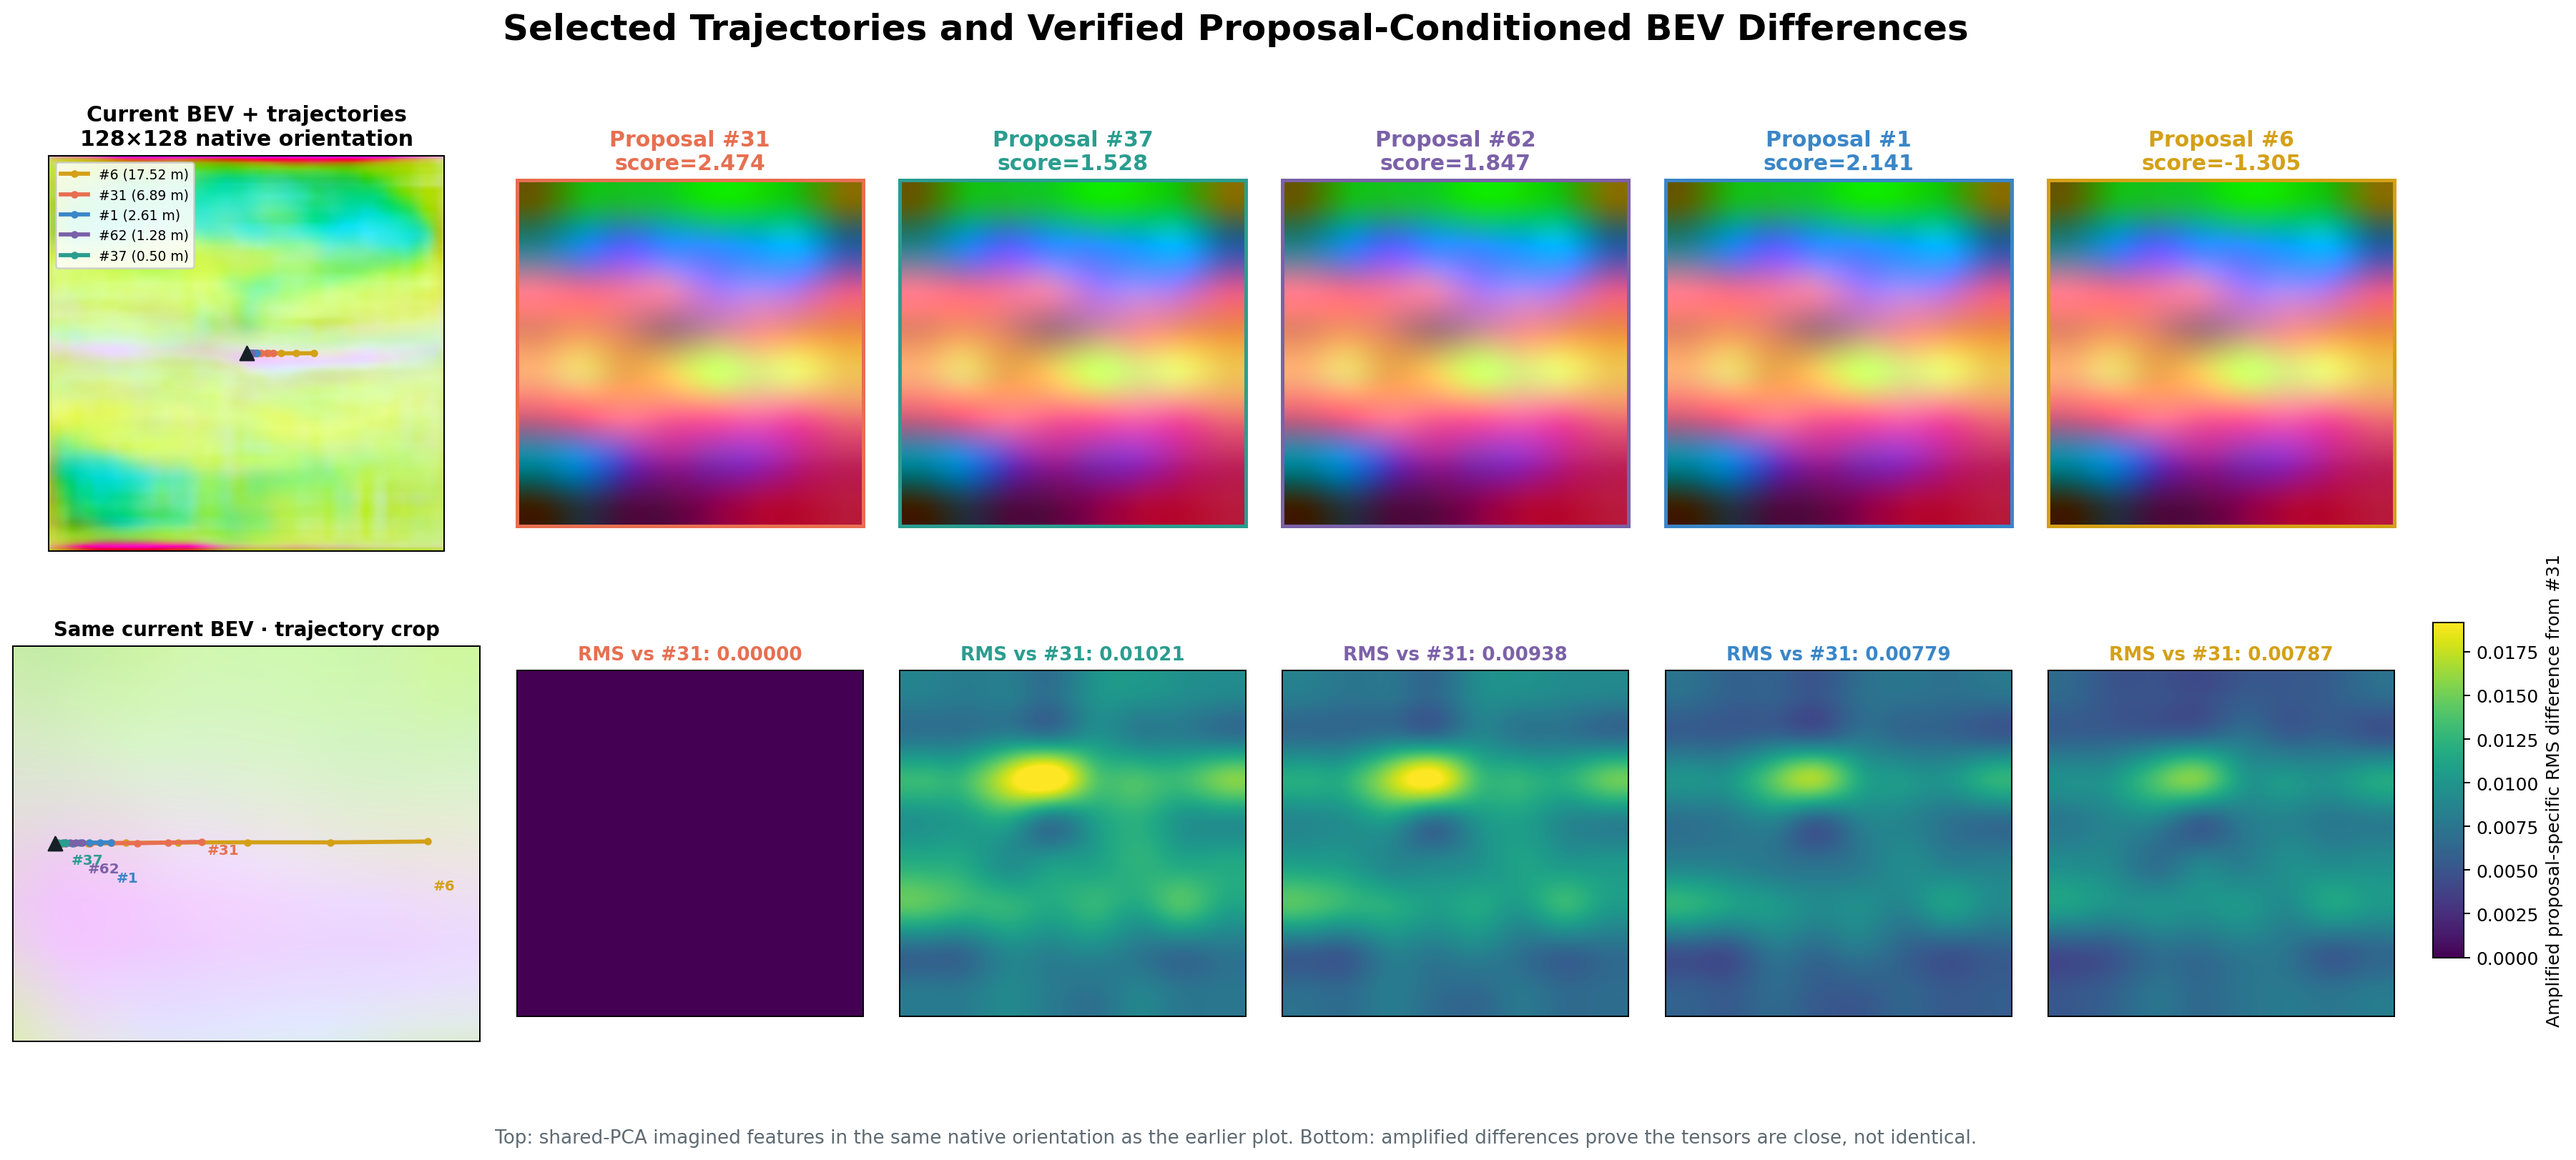
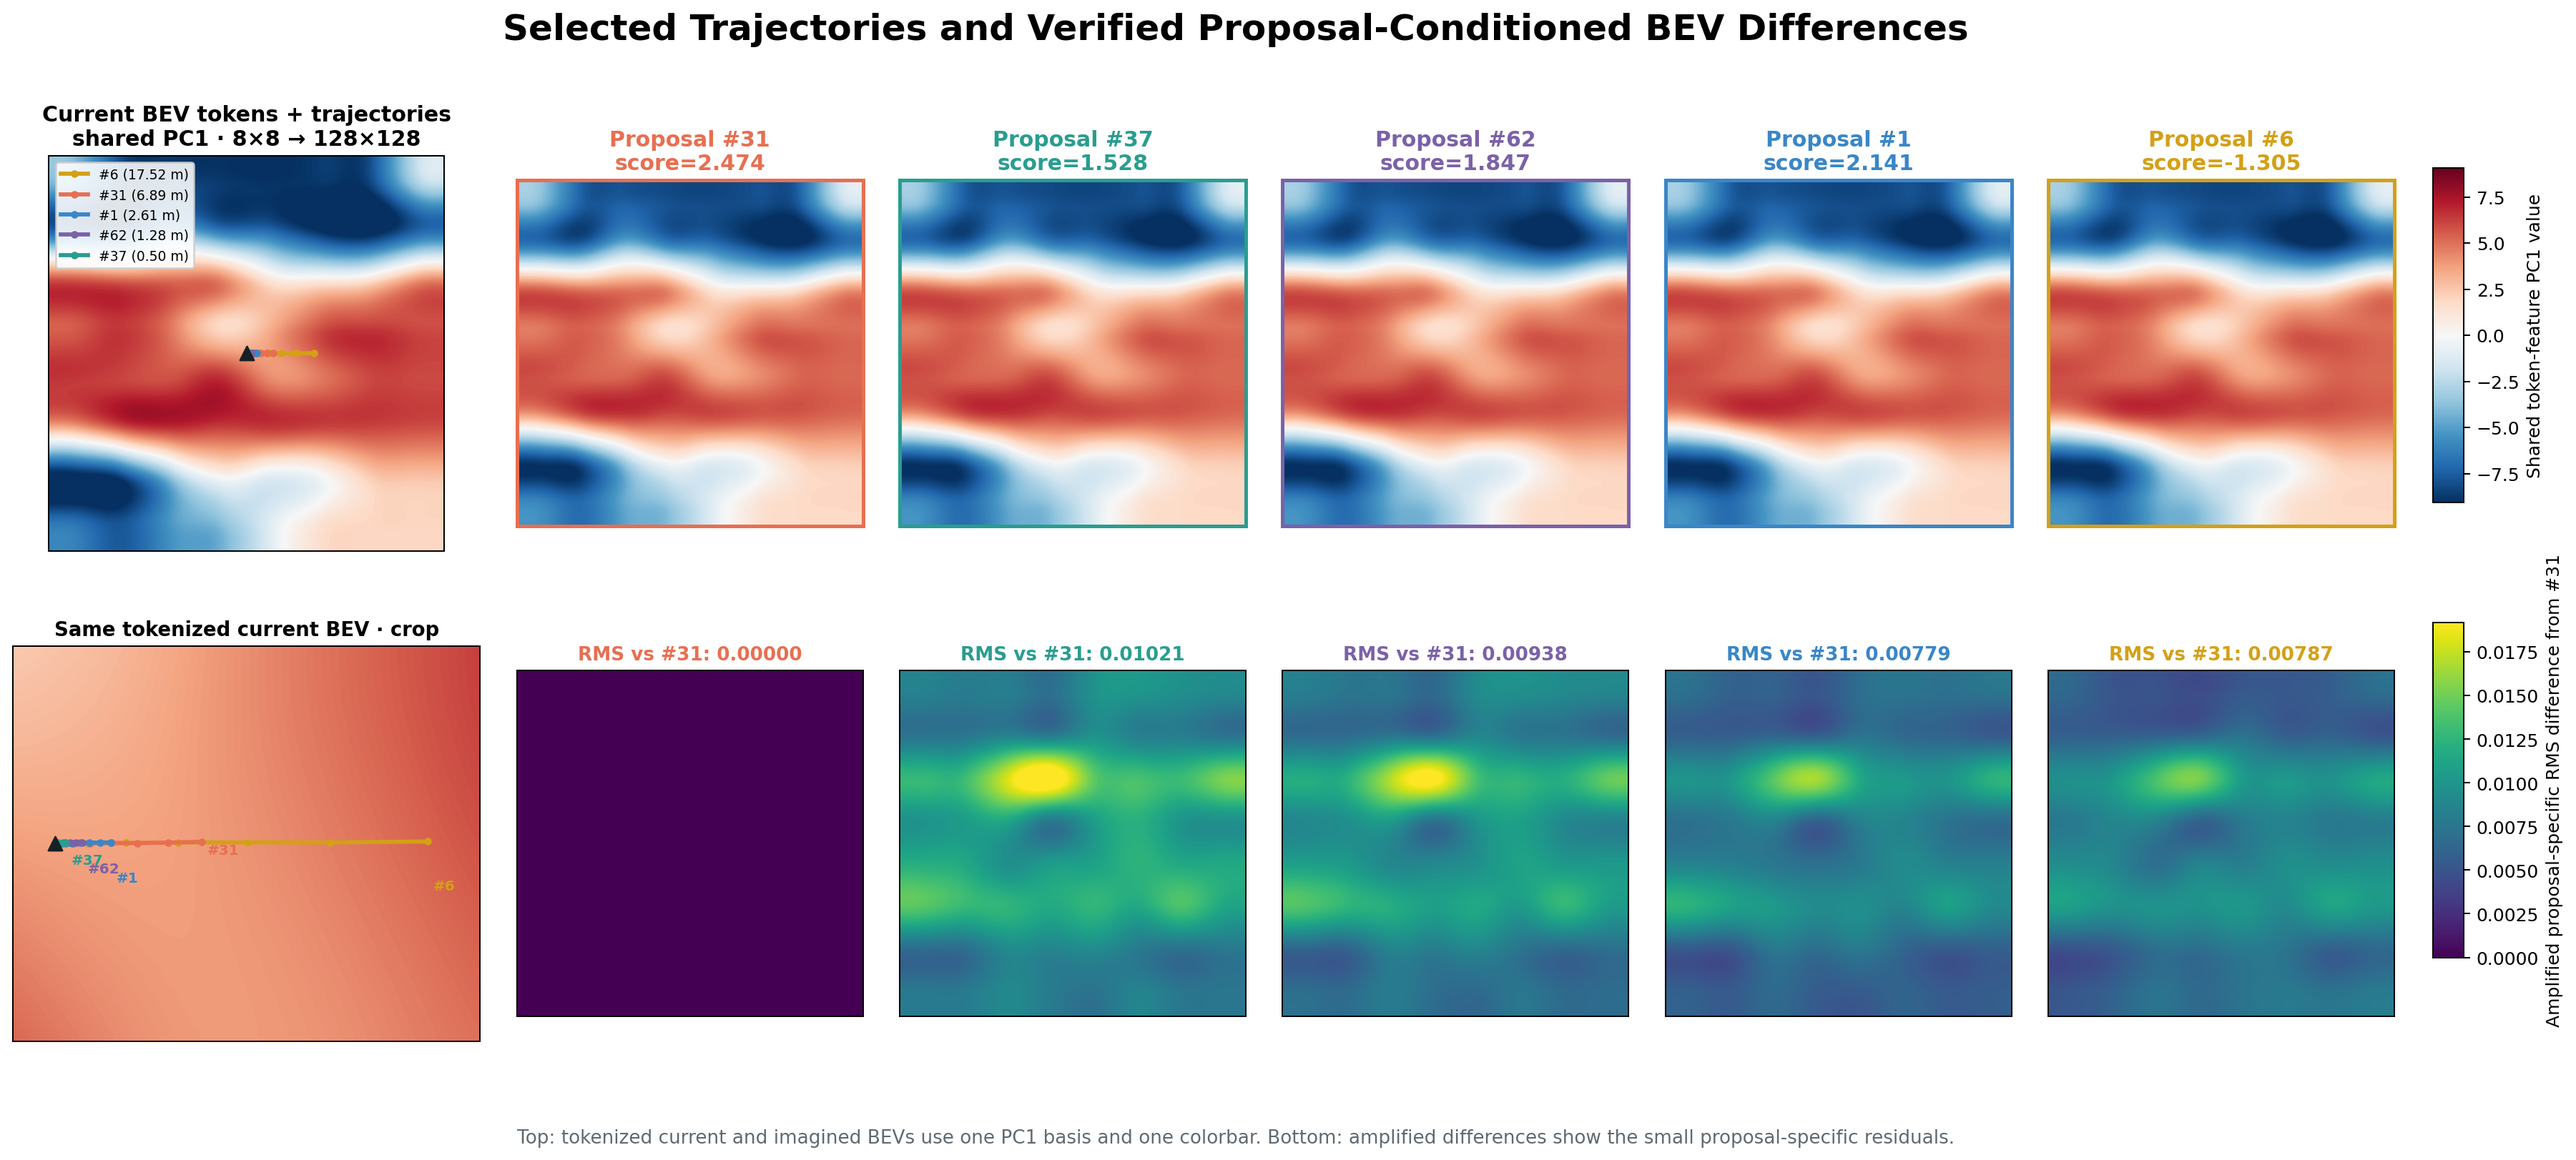
[fix] use shared BEV feature color scale

diff --git a/scripts/viz/plot_proposal_world_rollouts.py b/scripts/viz/plot_proposal_world_rollouts.py
@@ -183,6 +183,19 @@ def shared_pca_rgb(current: np.ndarray, futures: np.ndarray) -> tuple[np.ndarray
     return rgb[0], rgb[1:]
 
 
+def shared_pca_scalar(
+    current: np.ndarray, futures: np.ndarray
+) -> tuple[np.ndarray, np.ndarray, float]:
+    """Project current and future tokens onto one shared PC1 and color range."""
+    stacked = np.concatenate([current[None], futures], axis=0)
+    flat = stacked.reshape(-1, stacked.shape[-1]).astype(np.float64)
+    flat -= flat.mean(axis=0, keepdims=True)
+    _, _, vh = np.linalg.svd(flat, full_matrices=False)
+    projected = (flat @ vh[0]).reshape(stacked.shape[0], 8, 8).astype(np.float32)
+    limit = float(np.percentile(np.abs(projected), 99.0))
+    return projected[0], projected[1:], max(limit, 1e-8)
+
+
 def feature_map_pca_rgb(feature_chw: np.ndarray) -> np.ndarray:
     """Project one CxHxW feature map to RGB without implying semantic channels."""
     channels, height, width = feature_chw.shape
@@ -217,6 +230,14 @@ def upsample_scalar(values: np.ndarray, size: int = 128) -> np.ndarray:
     upsampled = F.interpolate(
         tensor, size=(size, size), mode="bicubic", align_corners=False
     ).clamp_min(0)
+    return upsampled[0, 0].numpy()
+
+
+def upsample_signed_scalar(values: np.ndarray, size: int = 128) -> np.ndarray:
+    tensor = torch.from_numpy(values).unsqueeze(0).unsqueeze(0)
+    upsampled = F.interpolate(
+        tensor, size=(size, size), mode="bicubic", align_corners=False
+    )
     return upsampled[0, 0].numpy()
 
 
@@ -449,8 +470,8 @@ def plot_requested_candidates(
     futures = data["future_tokens"]
     proposals = data["base_proposals"]
     scores = data["scores"]
-    _, future_rgb = shared_pca_rgb(current, futures)
-    raw_rgb = feature_map_pca_rgb(data["raw_bev"])
+    current_pc1, future_pc1, pc1_limit = shared_pca_scalar(current, futures)
+    current_display = upsample_signed_scalar(current_pc1)
     colors = ["#E76F51", "#2A9D8F", "#7B61A8", "#3A86C8", "#D4A017"]
     reference = selected[0]
     differences = {
@@ -499,19 +520,31 @@ def plot_requested_candidates(
     fig = plt.figure(figsize=(20, 9.3))
     grid = fig.add_gridspec(2, 6, width_ratios=[1.35, 1, 1, 1, 1, 1])
     current_axis = fig.add_subplot(grid[0, 0])
-    current_axis.imshow(raw_rgb, interpolation="bilinear")
+    pc1_image = current_axis.imshow(
+        current_display,
+        cmap="RdBu_r",
+        vmin=-pc1_limit,
+        vmax=pc1_limit,
+        interpolation="bilinear",
+    )
     draw_trajectories(current_axis, annotate=False)
     current_axis.set_xticks([])
     current_axis.set_yticks([])
     current_axis.set_title(
-        "Current BEV + trajectories\n128×128 native orientation",
+        "Current BEV tokens + trajectories\nshared PC1 · 8×8 → 128×128",
         fontsize=12,
         fontweight="bold",
     )
     current_axis.legend(loc="upper left", fontsize=7.5, framealpha=0.88)
 
     zoom_axis = fig.add_subplot(grid[1, 0])
-    zoom_axis.imshow(raw_rgb, interpolation="bilinear")
+    zoom_axis.imshow(
+        current_display,
+        cmap="RdBu_r",
+        vmin=-pc1_limit,
+        vmax=pc1_limit,
+        interpolation="bilinear",
+    )
     draw_trajectories(zoom_axis, annotate=True)
     x_left = (-2.0 + 51.2) / 102.4 * 127.0
     x_right = (20.0 + 51.2) / 102.4 * 127.0
@@ -522,13 +555,21 @@ def plot_requested_candidates(
     zoom_axis.set_aspect("auto")
     zoom_axis.set_xticks([])
     zoom_axis.set_yticks([])
-    zoom_axis.set_title("Same current BEV · trajectory crop", fontsize=11, fontweight="bold")
+    zoom_axis.set_title(
+        "Same tokenized current BEV · crop", fontsize=11, fontweight="bold"
+    )
 
     difference_axes = []
     difference_image = None
     for column, (color, index) in enumerate(zip(colors, selected), start=1):
         imagined_axis = fig.add_subplot(grid[0, column])
-        imagined_axis.imshow(upsample_rgb(future_rgb[index]), interpolation="bilinear")
+        imagined_axis.imshow(
+            upsample_signed_scalar(future_pc1[index]),
+            cmap="RdBu_r",
+            vmin=-pc1_limit,
+            vmax=pc1_limit,
+            interpolation="bilinear",
+        )
         imagined_axis.set_title(
             f"Proposal #{index}\nscore={scores[index]:.3f}",
             fontsize=12,
@@ -559,6 +600,13 @@ def plot_requested_candidates(
         difference_axis.set_yticks([])
         difference_axes.append(difference_axis)
 
+    pc1_colorbar_axis = fig.add_axes([0.965, 0.57, 0.012, 0.28])
+    fig.colorbar(
+        pc1_image,
+        cax=pc1_colorbar_axis,
+        orientation="vertical",
+        label="Shared token-feature PC1 value",
+    )
     if difference_image is not None:
         colorbar_axis = fig.add_axes([0.965, 0.19, 0.012, 0.28])
         fig.colorbar(
@@ -580,7 +628,7 @@ def plot_requested_candidates(
     fig.text(
         0.5,
         0.035,
-        "Top: shared-PCA imagined features in the same native orientation as the earlier plot. Bottom: amplified differences prove the tensors are close, not identical.",
+        "Top: tokenized current and imagined BEVs use one PC1 basis and one colorbar. Bottom: amplified differences show the small proposal-specific residuals.",
         ha="center",
         fontsize=10.5,
         color="#5E6A72",

diff --git a/docs/experiments/idea0002_01_fast_validation.md b/docs/experiments/idea0002_01_fast_validation.md
@@ -92,7 +92,7 @@ The final proposal-world checkpoint (`best-epoch=3-step=64.ckpt`) was inspected 
 
 ![Selected proposals 31, 37, 62, 1, and 6 over the current BEV with imagined rollouts](../figures/idea0002_01/rollouts/d973628ca1235533_proposals_31_37_62_1_6.png)
 
-The selected-proposal verification preserves the same native current-BEV orientation as the resolution figure; its lower-left panel is only a crop of that tensor. Relative to proposal 31, proposals 37, 62, 1, and 6 have latent RMS differences of `0.01021`, `0.00938`, `0.00779`, and `0.00787`. Their cosine similarities exceed `0.99994`, confirming that the outputs are numerically distinct but nearly collapsed rather than accidentally duplicated.
+The selected-proposal verification compares the tokenized current BEV and all imagined BEVs using one shared PC1 basis and symmetric color range. This is required because the raw exported `128x128` feature and the post-tokenizer future features occupy different learned spaces. Relative to proposal 31, proposals 37, 62, 1, and 6 have latent RMS differences of `0.01021`, `0.00938`, `0.00779`, and `0.00787`. Their cosine similarities exceed `0.99994`, confirming that the outputs are numerically distinct but nearly collapsed rather than accidentally duplicated.
 
 - Mean current-to-future latent RMS: `0.569474`
 - Mean pairwise RMS across candidate futures: `0.005400`
